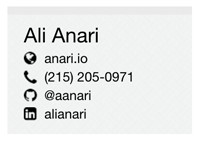
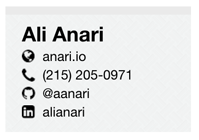
Bolded name improved padding

diff --git a/src/personal/style.css b/src/personal/style.css
@@ -92,7 +92,7 @@ a{
   /* @todo gulp-inline-css doesn't parse background-color -> bgcolor */
   background-color: #f4f6f6;
   background-image: url(https://dl.dropboxusercontent.com/u/69274956/Icons/card.png);
-  padding: 6px 20px 10px 16px;
+  padding: 4px 20px 10px 16px;
   color: #000;
   border-top: 8px solid #EAEAEA;
 }
@@ -109,6 +109,7 @@ a{
 
 .name {
     font-size: 20px;
+    font-weight: bold;
     line-height: 28px;
     color: #000;
 }
